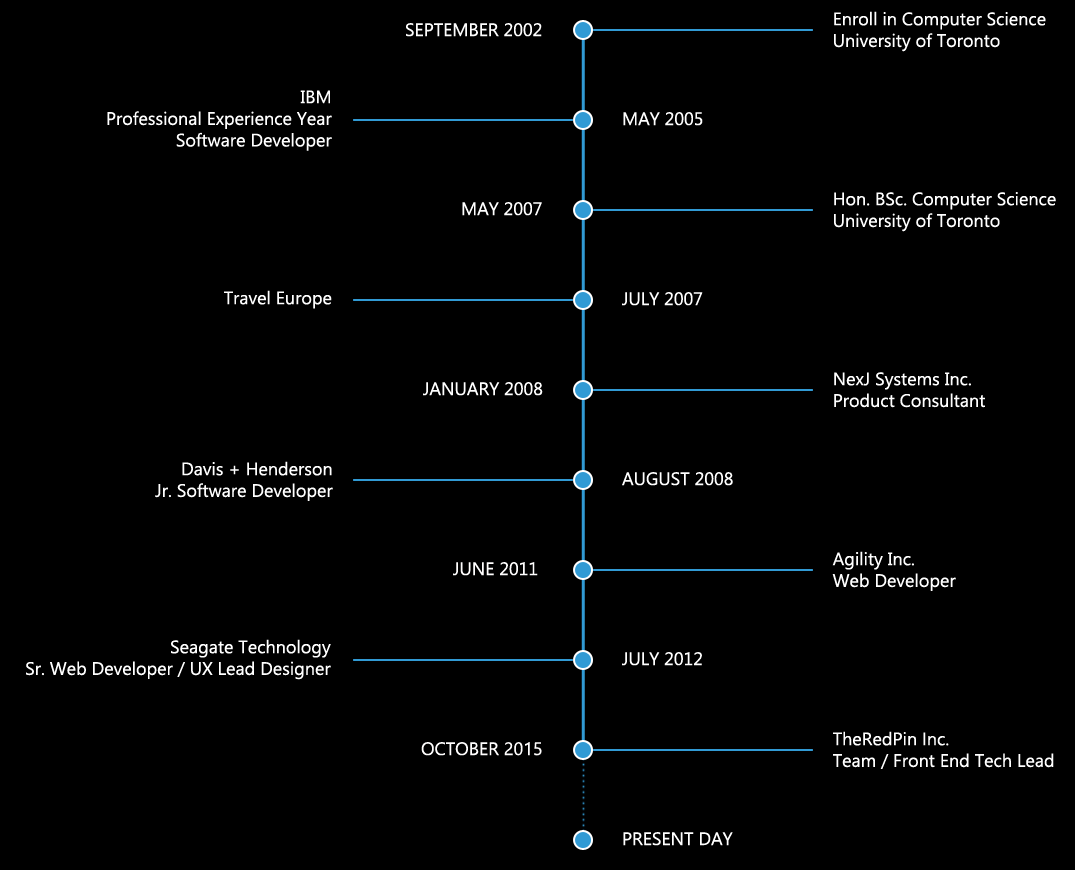
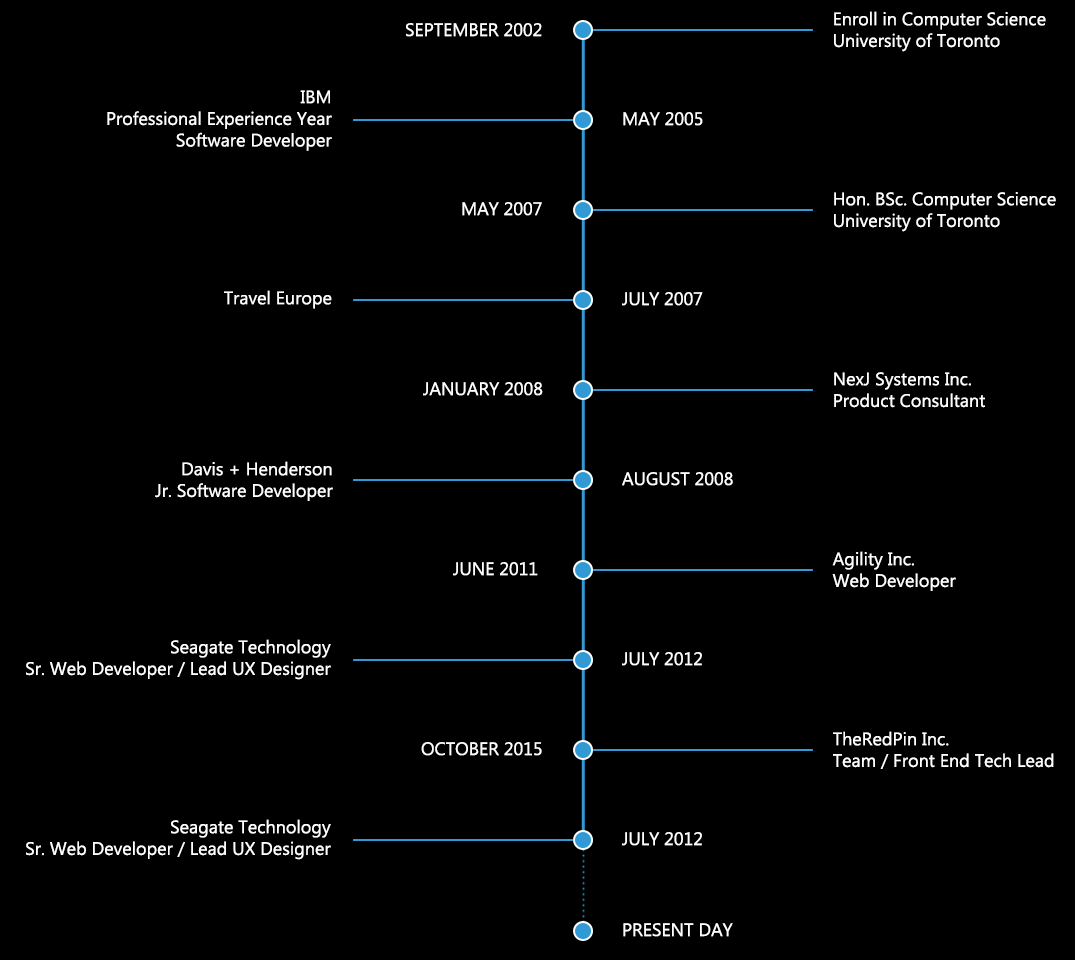
Adding skeleton for TRP and Geotab

diff --git a/app/pages/resume/resume.html b/app/pages/resume/resume.html
@@ -10,8 +10,8 @@
             </div>
             <div class="row">
                 <div class="col-sm-6">
-                    <h4>UX Lead Designer & Senior Web Developer</h4>
-                    <h4>Seagate Technology</h4>
+                    <h4>Lead UX Designer</h4>
+                    <h4>GEOTAB</h4>
                 </div>
                 <div class="col-sm-6 smart-right">
                     <h4>Computer Science (Hon. BSc.)</h4>
@@ -25,32 +25,76 @@
                 Professional Experience
                 <div class="summary-btn pull-right" ng-click="toggleDetails();">{{collapseText}}</div>
             </div>
+
+            <div class="row group">
+                <div class="col-sm-2 logo">
+                    <img src="assets/images/res-logo-geotab.png" title="GEOTAB" /> <br />
+                    August 2016 - present
+                </div>
+                <div class="col-sm-10 gr-content">
+                    <h2>GEOTAB</h2>
+                    <h3>Lead UX Designer</h3>
+                    <div class="row" ng-show="!collapsed">
+                        <div class="col-sm-12">
+                            <!-- <h4>Duties:</h4>
+                             <ul>
+                                 <li>1</li>
+                                 <li>2</li>
+                                 <li>3</li>
+                             </ul>-->
+                        </div>
+                    </div>
+                    <div class="row" ng-show="!collapsed">
+                        <div class="col-sm-12">
+                            <!--<h4>Accomplishments:</h4>
+                            <ul>
+                               <li>1</li>
+                               <li>2</li>
+                               <li>3</li>
+                            </ul>-->
+                        </div>
+                    </div>
+                    <h4>Time Utilization:</h4>
+                    <div class="progress">
+                        <div class="progress-bar progress-bar-success" style="width: 70%">
+                            Design
+                        </div>
+                        <div class="progress-bar progress-bar-warning" style="width: 15%">
+                            Development
+                        </div>
+                        <div class="progress-bar" style="width: 15%">
+                            Team Management
+                        </div>
+                    </div>
+                </div>
+            </div>
+
             <div class="row group">
                 <div class="col-sm-2 logo">
                     <img src="assets/images/res-logo-trp.png" title="TheRedPin Brokerage, Inc." /> <br />
-                    October 2015 - present
+                    October 2015 - August 2016
                 </div>
                 <div class="col-sm-10 gr-content">
                     <h2>TheRedPin.com</h2>
                     <h3>Front End Technical Lead & Team Lead</h3>
                     <div class="row" ng-show="!collapsed">
                         <div class="col-sm-12">
-                            <h4>Duties:</h4>
+                           <!-- <h4>Duties:</h4>
                             <ul>
                                 <li>1</li>
                                 <li>2</li>
                                 <li>3</li>
-                            </ul>
+                            </ul>-->
                         </div>
                     </div>
                     <div class="row" ng-show="!collapsed">
                         <div class="col-sm-12">
-                            <h4>Accomplishments:</h4>
+                            <!--<h4>Accomplishments:</h4>
                             <ul>
                                <li>1</li>
                                <li>2</li>
                                <li>3</li>
-                            </ul>
+                            </ul>-->
                         </div>
                     </div>
                     <h4>Time Utilization:</h4>
@@ -75,7 +119,7 @@
                 </div>
                 <div class="col-sm-10 gr-content">
                     <h2>Seagate Technology</h2>
-                    <h3>UX Lead Designer & Senior Web Developer</h3>
+                    <h3>Lead UX Designer & Senior Web Developer</h3>
                     <div class="row" ng-show="!collapsed">
                         <div class="col-sm-12">
                             <h4>Duties:</h4>
@@ -196,13 +240,13 @@
                     </div>
                     <h4>Time Utilization:</h4>
                     <div class="progress">
-                        <div class="progress-bar progress-bar-success" style="width: 22%">
+                        <div class="progress-bar progress-bar-success" style="width: 20%">
                             Design
                         </div>
-                        <div class="progress-bar progress-bar-warning" style="width: 42%">
+                        <div class="progress-bar progress-bar-warning" style="width: 60%">
                             Development
                         </div>
-                        <div class="progress-bar" style="width: 36%">
+                        <div class="progress-bar" style="width: 20%">
                             Process Management
                         </div>
                     </div>
@@ -293,7 +337,23 @@
             <div class="row group">
                 <div class="col-sm-10 col-sm-offset-2">
                     <div class="row">
-                        <div class="col-sm-4">
+                        <div class="col-sm-3">
+                            <div class="mini-heading">User Experience:</div>
+                            <skill name="Requirements analysis" score="90" />
+                            <skill name="Competition analysis" score="80" />
+                            <skill name="UX research" score="90" />
+                            <skill name="Use case creation" score="85" />
+                            <skill name="Workflow design" score="95" />
+                            <skill name="Interaction design" score="95" />
+                            <skill name="Prototyping" score="100" />
+                            <skill name="Wire framing" score="100" />
+                            <skill name="Mocking up" score="100" />
+                            <skill name="Design for accessibility" score="75" />
+                            <skill name="Graphic design" score="65" />
+                            <skill name="Usability evaluation" score="90" />
+                            <skill name="Design validation" score="90" />
+                        </div>
+                        <div class="col-sm-3">
                             <div class="mini-heading">Web Development:</div>
                             <skill name="ASP.NET" score="65" />
                             <skill name="AJAX" score="80" />
@@ -304,10 +364,10 @@
                             <skill name="CSS(3)" score="100" />
                             <skill name="jQuery" score="90" />
                             <skill name="JavaScript" score="85" />
-                            <skill name="LESS" score="90" />
-                            <skill name="SQL" score="50" />
+                            <skill name="LESS" score="95" />
+                            <skill name="SQL" score="65" />
                         </div>
-                        <div class="col-sm-4">
+                        <div class="col-sm-3">
                             <div class="mini-heading">Tools & Applications:</div>
                             <skill name="Axure RP" score="90" />
                             <skill name="Balsamiq" score="80" />
@@ -316,24 +376,18 @@
                             <skill name="ReSharper" score="80" />
                             <skill name="WebStorm" score="95" />
                             <skill name="Firebug" score="100" />
-                            <skill name="Fiddler" score="55" />
                             <skill name="CorelDRAW" score="60" />
                         </div>
-                        <div class="col-sm-4">
+                        <div class="col-sm-3">
                             <div class="mini-heading">Processes & Skills:</div>
-                            <skill name="Requirements Analysis" score="90" />
-                            <skill name="Use Case Creation" score="85" />
-                            <skill name="Workflow Design" score="95" />
-                            <skill name="Interaction Design" score="95" />
-                            <skill name="Graphic Design" score="65" />
-                            <skill name="Software Usability" score="90" />
-                            <skill name="SOA" score="65" />
-                            <skill name="OOA/OOD" score="80" />
-                            <skill name="Design Patterns" score="75" />
-                            <skill name="Agile Development" score="80" />
-                            <skill name="Team Leadership" score="70" />
-                            <skill name="Client Facing" score="75" />
-                            <skill name="Public Speaking" score="75" />
+                            <skill name="Team leadership" score="90" />
+                            <skill name="Negotiating" score="85" />
+                            <skill name="Client facing" score="80" />
+                            <skill name="Service-oriented architecture" score="80" />
+                            <skill name="Object-oriented architecture" score="80" />
+                            <skill name="Design patterns" score="75" />
+                            <skill name="Agile development" score="80" />
+                            <skill name="Public speaking" score="75" />
                         </div>
                     </div>
                 </div>

diff --git a/app/pages/about/about.html b/app/pages/about/about.html
@@ -45,7 +45,7 @@
             <p>My daily tasks are mainly consisted of overlooking and participating in the development and UX design of the company's main web site, which is a complex web application with many thousands of daily users. I am also mentoring a team of developers and UX designers on development and UX best practises daily.</p>
 
             <p>Before that I was the <em>UX Lead Designer and Web Developer</em> at <a href="http://www.seagate.com" target="_blank">Seagate Technology</a>.
-                Here I lead major redesign efforts for several products and designed the user interface for dozens of features that were integrated with already existing products.
+                Here I led major redesign efforts for several products and designed the user interface for dozens of features that were integrated with already existing products.
                 I also led the design of two brand new web products and an online store for the company.
                 When I was not involved in hands-on design, I overlooked the UX on several projects and mentored less experienced developers and designers, as well as created, maintained and enforced UI standards for the products I had designed.</p>
             </p>
@@ -53,7 +53,7 @@
             <p>My specialty are responsive user interfaces for web applications. I hold a <em>degree in computer science </em>from University of Toronto. I also spend hours each week educating myself and keeping up to date with the current usability principles and design trends. </p>
 
             <p>
-                When I'm not working, I'm likely spending time with my wife and 3 year old daughter, or I'm preparing for my next archery tournament.
+                When I'm not working, I'm likely spending time with my wife and 4 year old daughter, or I'm preparing for my next archery tournament.
             </p>
 
             <figure class="inline-image-holder">
